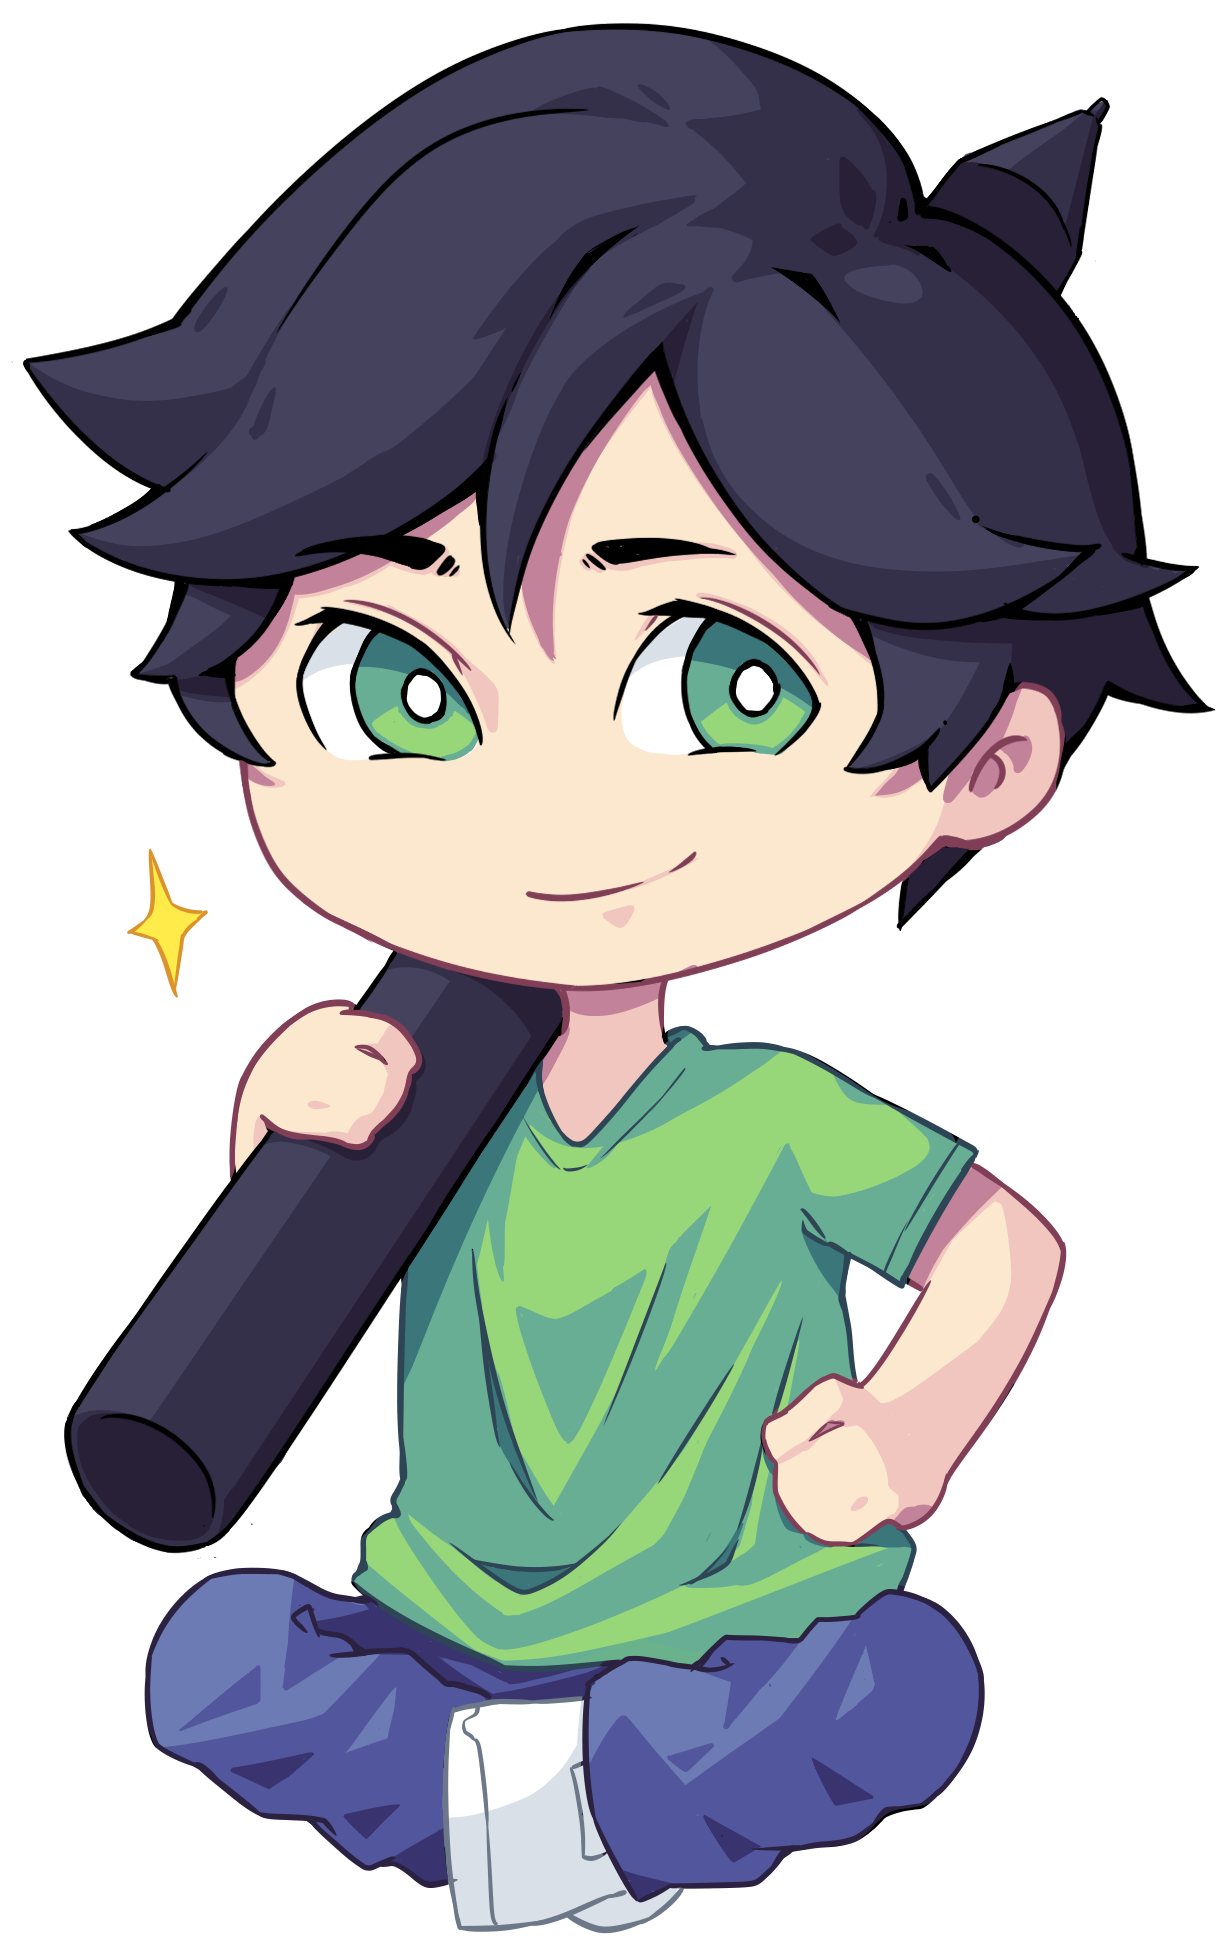
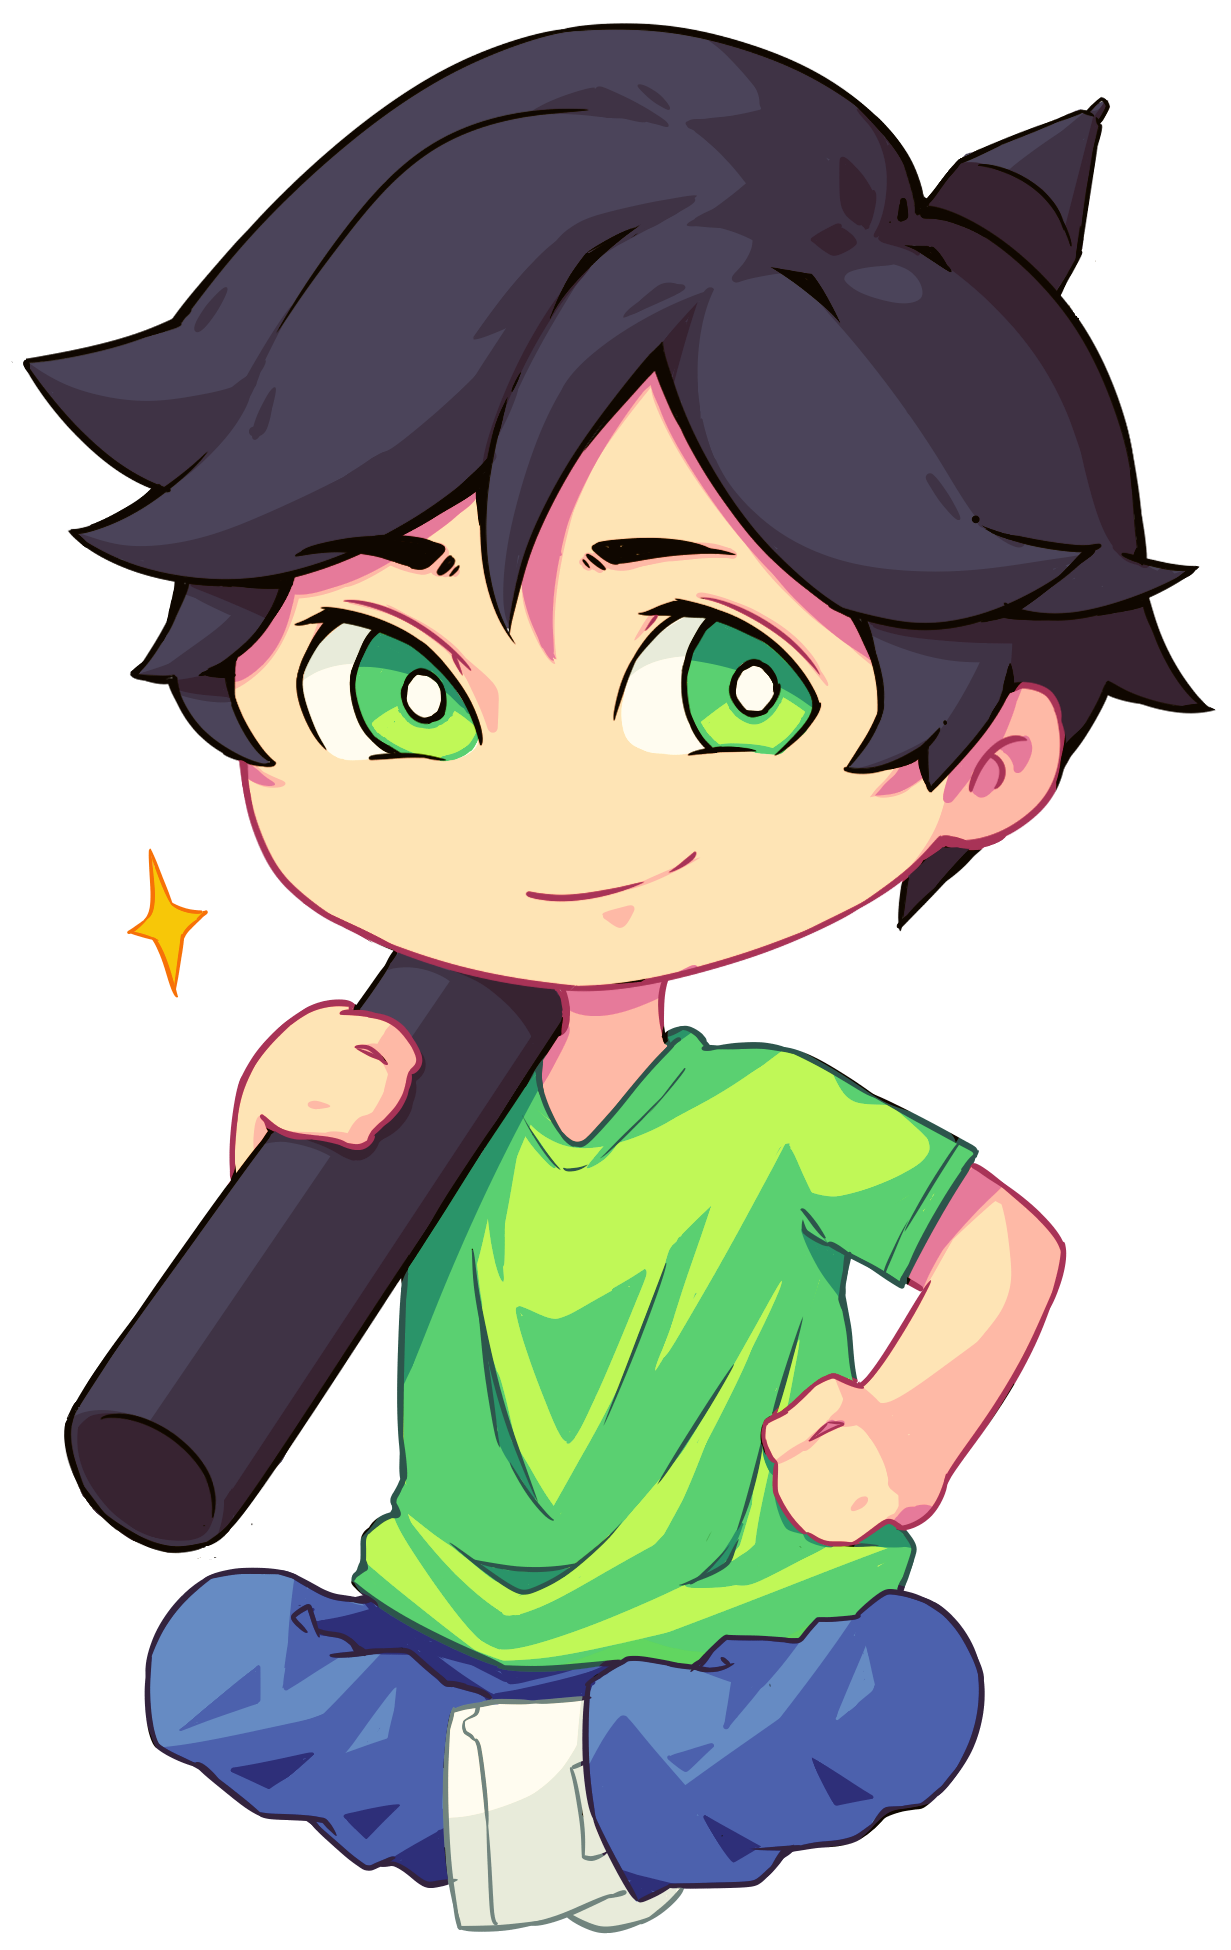
Update website theme
- Change the accent from yellow to lime
- Change corner radius for button and image to 20px

diff --git a/pages/works.tsx b/pages/works.tsx
@@ -1,11 +1,21 @@
-import Head from 'next/head';
-import Image from 'next/image';
+import Head from "next/head";
+import Image from "next/image";
 
 export default function Works() {
   const works = {
-    colorSketch: ['1.jpg', '2.jpg', '3.jpg', '4.jpg', '5.jpg', '6.jpg', '7.jpg', '8.jpg', '9.jpg'],
-    celShade: ['1.jpg', '2.jpg', '3.jpg', '4.jpg', '5.jpg', '6.jpg'],
-    fullRender: ['1.jpg', '2.jpg', '3.jpg'],
+    colorSketch: [
+      "1.jpg",
+      "2.jpg",
+      "3.jpg",
+      "4.jpg",
+      "5.jpg",
+      "6.jpg",
+      "7.jpg",
+      "8.jpg",
+      "9.jpg",
+    ],
+    celShade: ["1.jpg", "2.jpg", "3.jpg", "4.jpg", "5.jpg", "6.jpg"],
+    fullRender: ["1.jpg", "2.jpg", "3.jpg"],
   };
 
   return (
@@ -15,17 +25,14 @@ export default function Works() {
       </Head>
 
       <section>
-        <h2>Works</h2>
+        <h2>Commissioned Works</h2>
 
         {/* <h3 className="text-gray-500 font-bold text-xl">Coming Soon...</h3> */}
 
-        <h3>Color Sketch</h3>
+        <h3 className="font-bold text-2xl">Color Sketch</h3>
         <div className="grid grid-cols-1 sm:grid-cols-2 lg:grid-cols-3 gap-4">
           {works.colorSketch.reverse().map((image, index) => (
-            <div
-              key={index}
-              className="relative container w-60 h-80 rounded bg-gray-900 overflow-hidden"
-            >
+            <div key={index} className="card container w-60 h-80">
               <Image
                 src={`/images/works/colorSketch/${image}`}
                 alt="sample"
@@ -37,13 +44,10 @@ export default function Works() {
           ))}
         </div>
 
-        <h3>Cel Shade</h3>
+        <h3 className="font-bold text-2xl">Cel Shade</h3>
         <div className="grid grid-cols-1 sm:grid-cols-2 lg:grid-cols-3 gap-4">
           {works.celShade.reverse().map((image, index) => (
-            <div
-              key={index}
-              className="relative container w-60 h-80 rounded bg-gray-900 overflow-hidden"
-            >
+            <div key={index} className="card container w-60 h-80">
               <Image
                 src={`/images/works/celShade/${image}`}
                 alt="sample"
@@ -55,13 +59,10 @@ export default function Works() {
           ))}
         </div>
 
-        <h3>Full Render</h3>
+        <h3 className="font-bold text-2xl">Full Render</h3>
         <div className="grid grid-cols-1 sm:grid-cols-2 lg:grid-cols-3 gap-4">
           {works.fullRender.reverse().map((image, index) => (
-            <div
-              key={index}
-              className="relative container w-60 h-80 rounded bg-gray-900 overflow-hidden"
-            >
+            <div key={index} className="card container w-60 h-80">
               <Image
                 src={`/images/works/fullRender/${image}`}
                 alt="sample"

diff --git a/components/home/Services.tsx b/components/home/Services.tsx
@@ -1,40 +1,40 @@
-import Image from 'next/image';
-import colorSketch from '@/public/images/samples/colorSketch.jpg';
-import celShade from '@/public/images/samples/celShade.jpg';
-import fullRender from '@/public/images/samples/fullRender.jpg';
+import Image from "next/image";
+import colorSketch from "@/public/images/samples/colorSketch.jpg";
+import celShade from "@/public/images/samples/celShade.jpg";
+import fullRender from "@/public/images/samples/fullRender.jpg";
 
 export default function Service() {
   const menu = [
     {
       id: 1,
-      style: 'Color Sketch',
+      style: "Color Sketch",
       price: {
-        headShot: '80K IDR / 15 USD',
-        bustUp: '120K IDR / 20 USD',
-        halfBody: '160K IDR / 25 USD',
-        fullBody: '240K IDR / 35 USD',
+        headShot: "80K IDR / 15 USD",
+        bustUp: "120K IDR / 20 USD",
+        halfBody: "160K IDR / 25 USD",
+        fullBody: "240K IDR / 35 USD",
       },
       sample: colorSketch,
     },
     {
       id: 2,
-      style: 'Cel Shade',
+      style: "Cel Shade",
       price: {
-        headShot: '80K IDR / 15 USD',
-        bustUp: '120K IDR / 20 USD',
-        halfBody: '160K IDR / 25 USD',
-        fullBody: '240K IDR / 35 USD',
+        headShot: "80K IDR / 15 USD",
+        bustUp: "120K IDR / 20 USD",
+        halfBody: "160K IDR / 25 USD",
+        fullBody: "240K IDR / 35 USD",
       },
       sample: celShade,
     },
     {
       id: 3,
-      style: 'Full Render',
+      style: "Full Render",
       price: {
-        headShot: '100K IDR / 20 USD',
-        bustUp: '150K IDR / 25 USD',
-        halfBody: '200K IDR / 30 USD',
-        fullBody: '300K IDR / 40 USD',
+        headShot: "100K IDR / 20 USD",
+        bustUp: "150K IDR / 25 USD",
+        halfBody: "200K IDR / 30 USD",
+        fullBody: "300K IDR / 40 USD",
       },
       sample: fullRender,
     },
@@ -45,10 +45,7 @@ export default function Service() {
       <h2>The Menu</h2>
       <div className="grid grid-cols-1 sm:grid-cols-2 lg:grid-cols-3 gap-4">
         {menu.map((item) => (
-          <div
-            key={item.id}
-            className="relative container w-60 h-80 rounded bg-gray-900 overflow-hidden"
-          >
+          <div key={item.id} className="card container w-60 h-80">
             <Image
               src={item.sample}
               alt="sample"

diff --git a/components/home/Testimonies.tsx b/components/home/Testimonies.tsx
@@ -2,24 +2,24 @@ export default function Testimonies() {
   const reviews = [
     {
       id: 1,
-      name: 'Zero11',
-      platform: 'Artist&Clients',
+      name: "Zero11",
+      platform: "Artist&Clients",
       opinion:
         "Absolutely a joy to work with, quick replies and updates, friendly and great work. I'd recommend to anyone looking for a quality piece like this!",
     },
     {
       id: 2,
-      name: 'newtype_allen13',
-      platform: 'Fiverr',
+      name: "newtype_allen13",
+      platform: "Fiverr",
       opinion:
         "Jappar is very good at what he does! He's very responsive and was willing to work with me every step of the way. He's very patient and also understanding! I would highly recommend him to draw any character you like in his unique art style!",
     },
     {
       id: 3,
-      name: 'ginjaninja99',
-      platform: 'Fiverr',
+      name: "ginjaninja99",
+      platform: "Fiverr",
       opinion:
-        'This is the first artist I have hired on this site and I must say I think I found one of the best ones. Jappar is very communicative during the process of producing your piece and ensures that small and minor details are perfect and make you feel apart of the process.',
+        "This is the first artist I have hired on this site and I must say I think I found one of the best ones. Jappar is very communicative during the process of producing your piece and ensures that small and minor details are perfect and make you feel apart of the process.",
     },
   ];
 
@@ -28,13 +28,10 @@ export default function Testimonies() {
       <h2>What they said</h2>
       <div className="grid grid-cols-1 sm:grid-cols-2 lg:grid-cols-3 gap-4">
         {reviews.map((review) => (
-          <div
-            key={review.id}
-            className="relative"
-          >
+          <div key={review.id} className="card">
             <div className="w-64 h-80 rounded bg-gray-900" />
             <div className="absolute top-0 p-6 text-center">
-              <h3 className="font-bold text-yellow-300">{review.name}</h3>
+              <h3 className="accent font-bold">{review.name}</h3>
               <span className="text-xs text-gray-500">
                 on <span className="font-bold">{review.platform}</span>
               </span>

diff --git a/components/layout/Footer.tsx b/components/layout/Footer.tsx
@@ -1,6 +1,6 @@
-import React from 'react';
-import Link from 'next/link';
-import { FaFacebook, FaInstagram, FaTwitter } from 'react-icons/fa';
+import React from "react";
+import Link from "next/link";
+import { FaFacebook, FaInstagram, FaTwitter } from "react-icons/fa";
 
 export default function Footer() {
   return (
@@ -10,27 +10,18 @@ export default function Footer() {
           <h1 className="text-3xl font-bold">
             <Link href="/">
               jappar<span className="text-gray-500">draws</span>
-              <span className="text-yellow-500">.</span>
+              <span className="accent">.</span>
             </Link>
           </h1>
           <p className="max-w-xs text-sm">Draws 2D anime-styled character.</p>
           <div className="flex gap-4 text-xl">
-            <Link
-              href="https://facebook.com/jappardraws"
-              target="_blank"
-            >
+            <Link href="https://facebook.com/jappardraws" target="_blank">
               <FaFacebook />
             </Link>
-            <Link
-              href="https://instagram.com/jappardraws"
-              target="_blank"
-            >
+            <Link href="https://instagram.com/jappardraws" target="_blank">
               <FaInstagram />
             </Link>
-            <Link
-              href="https://twitter.com/jappardraws"
-              target="_blank"
-            >
+            <Link href="https://twitter.com/jappardraws" target="_blank">
               <FaTwitter />
             </Link>
           </div>
@@ -42,7 +33,9 @@ export default function Footer() {
           <Link href="/contact">Contact</Link>
         </div>
       </div>
-      <p className="px-8 py-4 text-center">&copy; 2023 Jappar Draws. All rights</p>
+      <p className="px-8 py-4 text-center">
+        &copy; 2023 Jappar Draws. All rights
+      </p>
     </footer>
   );
 }

diff --git a/components/home/Hero.tsx b/components/home/Hero.tsx
@@ -1,25 +1,27 @@
-import Link from 'next/link';
-import Image from 'next/image';
-import hero from '@/public/images/hero.png';
+import Link from "next/link";
+import Image from "next/image";
+import hero from "@/public/images/hero.png";
 
 export default function Hero() {
   return (
     <section
       className="relative px-8 md:px-16 lg:px-20 pb-0 bg-black landscape:flex-row-reverse justify-end md:justify-center items-center "
-      style={{ height: '80vh' }}
+      style={{ height: "80vh" }}
     >
-      <Image 
+      <Image
         src={hero}
         height={700}
-        alt='Jappar Draws'
-        className='absolute px-8 md:h-2/3 md:w-auto md:px-0 md:static'
+        alt="Jappar Draws"
+        className="absolute px-8 md:h-2/3 md:w-auto md:px-0 md:static"
       />
-      <div className='absolute z-10 w-full h-full bg-gradient-to-t from-black md:hidden'/>
+      <div className="absolute z-10 w-full h-full bg-gradient-to-t from-black md:hidden" />
       <div className="static z-10 flex flex-col gap-3 portrait:text-center">
         <article className="flex flex-col gap-2">
           <div>
             <h2 className="text-3xl sm:text-4xl">Manifest your</h2>
-            <span className="font-bold text-4xl sm:text-5xl text-yellow-300">Imagination</span>
+            <span className="accent font-bold text-4xl sm:text-5xl">
+              Imagination
+            </span>
           </div>
           <p>Bring your favorite character into anime-styled 2D illustration</p>
         </article>

diff --git a/components/layout/Header.tsx b/components/layout/Header.tsx
@@ -1,4 +1,4 @@
-import Link from 'next/link';
+import Link from "next/link";
 
 export default function Header({ openMenu }: { openMenu: () => void }) {
   return (
@@ -6,7 +6,7 @@ export default function Header({ openMenu }: { openMenu: () => void }) {
       <h1 className="text-3xl font-bold">
         <Link href="/">
           jappar<span className="text-gray-500">draws</span>
-          <span className="text-yellow-300">.</span>
+          <span className="accent">.</span>
         </Link>
       </h1>
       <button

diff --git a/components/home/Portfolio.tsx b/components/home/Portfolio.tsx
@@ -10,10 +10,7 @@ export default function Portfolio() {
       <h2>Latest Works</h2>
       <div className="grid grid-cols-1 sm:grid-cols-2 gap-4">
         {works.latest.map((image, index) => (
-          <div
-            key={index}
-            className="relative container w-60 h-60 rounded bg-gray-900 overflow-hidden"
-          >
+          <div key={index} className="card container w-60 h-60">
             <Image
               src={`/images/latest/${image}`}
               alt="sample"

diff --git a/styles/globals.css b/styles/globals.css
@@ -18,9 +18,9 @@ h2 {
 
 button {
   border: none;
-  border-radius: 4px;
-  padding: 8px 12px;
-  background-color: #fbd24e;
+  border-radius: 20px;
+  padding: 8px 16px;
+  background-color: #a3e635;
   color: black;
 }
 
@@ -30,4 +30,14 @@ th {
 
 td {
   text-align: right;
+}
+
+.card {
+  position: relative;
+  border-radius: 20px;
+  overflow: hidden;
+}
+
+.accent {
+  color: #a3e635;
 }
